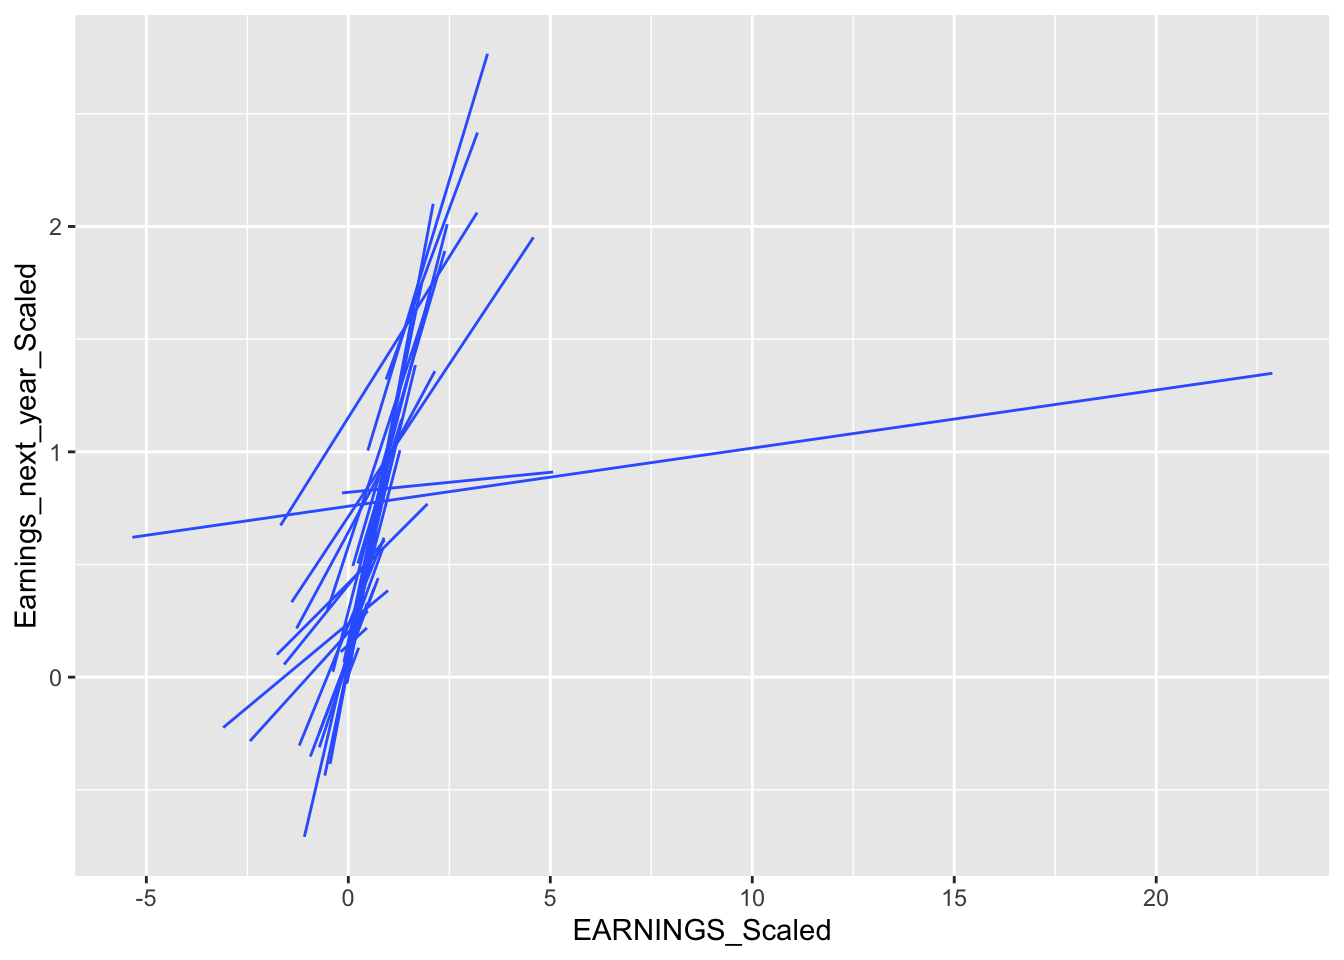
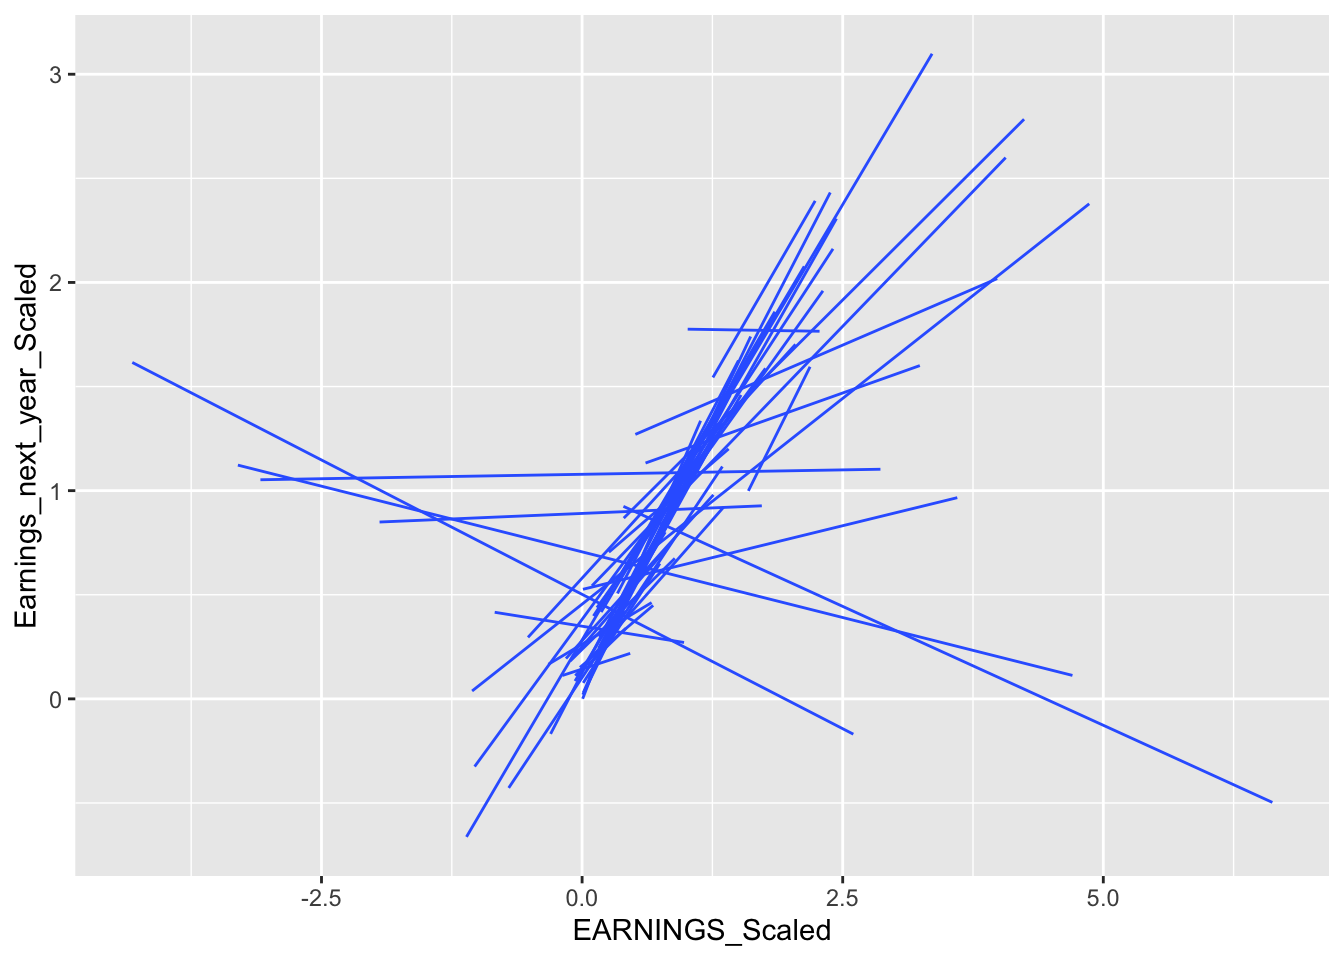
edits

diff --git a/docs/data.html b/docs/data.html
@@ -215,8 +215,8 @@ code span.wa { color: #60a0b0; font-weight: bold; font-style: italic; } /* Warni
 <div id="data-source" class="section level2" number="2.1">
 <h2><span class="header-section-number">2.1</span> Data Source</h2>
 <p>Our data includes financial information on companies in the S&amp;P 500 stock index from 1999-2021. This information was scraped from Yahoo Finance in November of 2021, and collected in a csv format for data analysis.</p>
-<p>To collect the data, first, we got the list of the current 500 S&amp;P companies from Slickchart (<a href="https://www.slickcharts.com/sp500" class="uri">https://www.slickcharts.com/sp500</a>). After having the list of the companies, we then moved on to the financials information of the listed companies on yahoo finance (<a href="https://finance.yahoo.com/" class="uri">https://finance.yahoo.com/</a>) to get the metrics such as sales, earnings, cogs, stock price, and market sector. We then scraped the data using BeautifulSoup library in Python and turned that into a CSV file.</p>
-<p>After getting the data, our main goal is to analyze and model this data to better improve projections for a company’s future metrics, like earnings.</p>
+<p>To collect the data, first, we got the list of the current 500 S&amp;P companies from Slickchart (<a href="https://www.slickcharts.com/sp500" class="uri">https://www.slickcharts.com/sp500</a>). After having the list of the companies, we then moved on to the financial information of the listed companies on yahoo finance (<a href="https://finance.yahoo.com/" class="uri">https://finance.yahoo.com/</a>) to get the metrics such as sales, earnings, cogs, stock price, and market sector. We then scraped the data using the BeautifulSoup library in Python and turned that into a CSV file.</p>
+<p>Our main goal is to analyze and model this data to better improve projections for a company’s future metrics, like earnings.</p>
 </div>
 <div id="variables" class="section level2" number="2.2">
 <h2><span class="header-section-number">2.2</span> Variables</h2>
@@ -280,7 +280,7 @@ code span.wa { color: #60a0b0; font-weight: bold; font-style: italic; } /* Warni
 <h2><span class="header-section-number">2.3</span> Data Cleaning</h2>
 <div id="data-pre-processing" class="section level3" number="2.3.1">
 <h3><span class="header-section-number">2.3.1</span> Data Pre-Processing</h3>
-<p>First, as the earnings, cash and other variables are really large, we have decided to divide them by 1 billion. The reason for that is to make it easier to interpret and to understand the model.</p>
+<p>First, as earnings, cash, and other variables are really large, we have decided to divide them by 1 billion. The reason for this is to make it easier to interpret and to understand the model.</p>
 <div class="sourceCode" id="cb1"><pre class="sourceCode r"><code class="sourceCode r"><span id="cb1-1"><a href="data.html#cb1-1" aria-hidden="true" tabindex="-1"></a><span class="co">#Scaling Variables of Interest</span></span>
 <span id="cb1-2"><a href="data.html#cb1-2" aria-hidden="true" tabindex="-1"></a>data <span class="ot">&lt;-</span> data <span class="sc">%&gt;%</span> </span>
 <span id="cb1-3"><a href="data.html#cb1-3" aria-hidden="true" tabindex="-1"></a>  <span class="fu">mutate</span>(<span class="at">EARNINGS_Scaled =</span> EARNINGS<span class="sc">/</span><span class="dv">1000000000</span>,</span>
@@ -303,7 +303,7 @@ code span.wa { color: #60a0b0; font-weight: bold; font-style: italic; } /* Warni
 </div>
 <div id="graphing-outliers" class="section level3" number="2.3.2">
 <h3><span class="header-section-number">2.3.2</span> Graphing Outliers</h3>
-<p>We will do some more basic exploration regarding our data set, particularly our dependent variable of interest: Earnings the next year. Earnings_next_year_Scaled is the company’s earnings the next year. So Earnings_next_year_Scaled value of 1 for Company X in 2015 can be interpreted as 1 billion dollars in earnings in 2016.</p>
+<p>We will do some more basic exploration regarding our data set, particularly our dependent variable of interest: Earnings next year. Earnings_next_year_Scaled is the company’s earnings the next year, so a value of 1 for Company X in 2015 can be interpreted as Company X had 1 billion dollars in earnings in 2016.</p>
 <p>We explore Earnings next year below:</p>
 <div class="sourceCode" id="cb3"><pre class="sourceCode r"><code class="sourceCode r"><span id="cb3-1"><a href="data.html#cb3-1" aria-hidden="true" tabindex="-1"></a><span class="co">#Graphing Outliers</span></span>
 <span id="cb3-2"><a href="data.html#cb3-2" aria-hidden="true" tabindex="-1"></a>data <span class="sc">%&gt;%</span> <span class="fu">ggplot</span>(<span class="fu">aes</span>(<span class="at">x =</span> Earnings_next_year_Scaled)) <span class="sc">+</span> </span>
@@ -312,15 +312,15 @@ code span.wa { color: #60a0b0; font-weight: bold; font-style: italic; } /* Warni
 <div class="sourceCode" id="cb4"><pre class="sourceCode r"><code class="sourceCode r"><span id="cb4-1"><a href="data.html#cb4-1" aria-hidden="true" tabindex="-1"></a>data <span class="sc">%&gt;%</span> <span class="fu">ggplot</span>(<span class="fu">aes</span>(<span class="at">x =</span> EARNINGS_Scaled, <span class="at">y=</span> Earnings_next_year_Scaled))<span class="sc">+</span></span>
 <span id="cb4-2"><a href="data.html#cb4-2" aria-hidden="true" tabindex="-1"></a>  <span class="fu">geom_point</span>()</span></code></pre></div>
 <p><img src="series_files/figure-html/unnamed-chunk-7-2.png" width="672" /></p>
-<p>There is a high number of outliers in our data, this is not ideal as we do not want to fit a model that includes outliers as predicting and modeling posterior distributions would be hard in the grand scheme.</p>
-<p>We removed outliers by classifying them as one if they are outside the range of +/- (0.9 * IQR) (Interquartile Range).</p>
+<p>There are a high number of outliers in our data, this is not ideal as we do not want to fit a model that includes many outliers, as predicting and modeling these posterior distributions would be quite difficult.</p>
+<p>We decided to remove outliers by classifying them as one if they are outside the range of +/- (0.9 * IQR) (Interquartile Range).</p>
 <div class="sourceCode" id="cb5"><pre class="sourceCode r"><code class="sourceCode r"><span id="cb5-1"><a href="data.html#cb5-1" aria-hidden="true" tabindex="-1"></a>Q <span class="ot">&lt;-</span> <span class="fu">quantile</span>(data<span class="sc">$</span>Earnings_next_year_Scaled, <span class="at">probs=</span><span class="fu">c</span>(.<span class="dv">25</span>, .<span class="dv">75</span>), <span class="at">na.rm =</span> <span class="cn">TRUE</span>)</span>
 <span id="cb5-2"><a href="data.html#cb5-2" aria-hidden="true" tabindex="-1"></a>iqr <span class="ot">&lt;-</span> <span class="fu">IQR</span>(data<span class="sc">$</span>Earnings_next_year_Scaled, <span class="at">na.rm =</span> <span class="cn">TRUE</span>)</span>
 <span id="cb5-3"><a href="data.html#cb5-3" aria-hidden="true" tabindex="-1"></a>up <span class="ot">&lt;-</span>  Q[<span class="dv">2</span>]<span class="sc">+</span>.<span class="dv">90</span><span class="sc">*</span>iqr <span class="co"># Upper Range  </span></span>
 <span id="cb5-4"><a href="data.html#cb5-4" aria-hidden="true" tabindex="-1"></a>low<span class="ot">&lt;-</span> Q[<span class="dv">1</span>]<span class="sc">-</span>.<span class="dv">90</span><span class="sc">*</span>iqr <span class="co"># Lower Range</span></span>
 <span id="cb5-5"><a href="data.html#cb5-5" aria-hidden="true" tabindex="-1"></a>eliminated<span class="ot">&lt;-</span> <span class="fu">subset</span>(data, data<span class="sc">$</span>Earnings_next_year_Scaled <span class="sc">&gt;</span> (low) <span class="sc">&amp;</span> data<span class="sc">$</span>Earnings_next_year_Scaled <span class="sc">&lt;</span> (up))</span>
 <span id="cb5-6"><a href="data.html#cb5-6" aria-hidden="true" tabindex="-1"></a>data_elimatedO <span class="ot">&lt;-</span> eliminated</span></code></pre></div>
-<p>We graph the data points without outliers below:</p>
+<p>We graph the remaining data points without outliers below:</p>
 <div class="sourceCode" id="cb6"><pre class="sourceCode r"><code class="sourceCode r"><span id="cb6-1"><a href="data.html#cb6-1" aria-hidden="true" tabindex="-1"></a>data_elimatedO <span class="sc">%&gt;%</span> <span class="fu">ggplot</span>(<span class="fu">aes</span>(<span class="at">x =</span> Earnings_next_year_Scaled)) <span class="sc">+</span> </span>
 <span id="cb6-2"><a href="data.html#cb6-2" aria-hidden="true" tabindex="-1"></a>  <span class="fu">geom_boxplot</span>()</span></code></pre></div>
 <p><img src="series_files/figure-html/unnamed-chunk-9-1.png" width="672" /></p>
@@ -332,7 +332,7 @@ code span.wa { color: #60a0b0; font-weight: bold; font-style: italic; } /* Warni
 </div>
 <div id="initial-explorations" class="section level2" number="2.4">
 <h2><span class="header-section-number">2.4</span> Initial Explorations</h2>
-<p>After collecting the data, we then looked for the distribution of the companies within the S&amp;P 500. The first plot we are going to create is the number of companies within the period:</p>
+<p>After cleaning the data, we then did some initial explorations like looking at the distribution of the companies within the S&amp;P 500. The first plot we are going to create is the number of companies within the given time period:</p>
 <div class="sourceCode" id="cb8"><pre class="sourceCode r"><code class="sourceCode r"><span id="cb8-1"><a href="data.html#cb8-1" aria-hidden="true" tabindex="-1"></a><span class="fu">tabyl</span>(data<span class="sc">$</span>YEAR) <span class="sc">%&gt;%</span> </span>
 <span id="cb8-2"><a href="data.html#cb8-2" aria-hidden="true" tabindex="-1"></a>  <span class="fu">ggplot</span>(<span class="fu">aes</span>(<span class="at">x=</span> <span class="st">`</span><span class="at">data$YEAR</span><span class="st">`</span>, <span class="at">y =</span> n)) <span class="sc">+</span></span>
 <span id="cb8-3"><a href="data.html#cb8-3" aria-hidden="true" tabindex="-1"></a>  <span class="fu">geom_line</span>() <span class="sc">+</span></span>
@@ -353,7 +353,7 @@ code span.wa { color: #60a0b0; font-weight: bold; font-style: italic; } /* Warni
 <span id="cb9-11"><a href="data.html#cb9-11" aria-hidden="true" tabindex="-1"></a>  <span class="fu">theme_minimal</span>() <span class="sc">+</span> </span>
 <span id="cb9-12"><a href="data.html#cb9-12" aria-hidden="true" tabindex="-1"></a>  <span class="fu">labs</span>(<span class="at">x =</span> <span class="st">&quot;Year&quot;</span>, <span class="at">y =</span> <span class="st">&quot;Sum of Market Cap&quot;</span>, <span class="at">title =</span> <span class="st">&quot;Market Cap within Dataset&quot;</span>)</span></code></pre></div>
 <p><img src="series_files/figure-html/unnamed-chunk-11-1.png" width="672" /></p>
-<p>Next, we investigated how market cap, specifically the sum of all the companies’ market caps, varied from year to year. By grouping by year, we were able to easily combine each companies market cap together to create the plot above. This plot highlights trends in the overall market, we see a general increase over time in market cap, with sharp decreases around 2008 and 2020. Those two years align with the housing market crash and COVID respectively, both which led to decreases in the stock market. By identifying trends in the overall market, we may have a better idea about how individual companies may perform.</p>
+<p>Next, we investigated how market cap, specifically the sum of all the companies’ market caps, varied from year to year. By grouping by year, we were able to easily combine each companies market cap together to create the plot above. This plot highlights trends in the overall market, we see a general increase over time in market cap, with sharp decreases around 2008 and 2020. Those two years align with the housing market crash and the emergence of COVID-19 respectively, both which led to decreases in the overall stock market. By identifying trends in the overall market, we may have a better idea about how individual companies may perform.</p>
 <div class="sourceCode" id="cb10"><pre class="sourceCode r"><code class="sourceCode r"><span id="cb10-1"><a href="data.html#cb10-1" aria-hidden="true" tabindex="-1"></a>temp <span class="ot">&lt;-</span> data <span class="sc">%&gt;%</span> </span>
 <span id="cb10-2"><a href="data.html#cb10-2" aria-hidden="true" tabindex="-1"></a>  <span class="fu">group_by</span>(COMPANY) <span class="sc">%&gt;%</span> </span>
 <span id="cb10-3"><a href="data.html#cb10-3" aria-hidden="true" tabindex="-1"></a>  <span class="fu">summarize</span>(<span class="at">count =</span> <span class="fu">n</span>(), </span>
@@ -410,7 +410,7 @@ code span.wa { color: #60a0b0; font-weight: bold; font-style: italic; } /* Warni
 <span id="cb11-33"><a href="data.html#cb11-33" aria-hidden="true" tabindex="-1"></a>         <span class="at">ncol =</span> <span class="dv">3</span>, <span class="at">nrow =</span> <span class="dv">2</span>,</span>
 <span id="cb11-34"><a href="data.html#cb11-34" aria-hidden="true" tabindex="-1"></a>         <span class="at">common.legend =</span> <span class="cn">TRUE</span>, <span class="at">legend =</span> <span class="st">&quot;bottom&quot;</span>)</span></code></pre></div>
 <p><img src="series_files/figure-html/unnamed-chunk-13-1.png" width="960" /></p>
-<p>For most sectors, it appears that the farther back we go, the flatter the relationship between Earnings and past earnings is. If we plot earnings next year with earnings four years ago, we will see that almost all sectors have different slopes.</p>
+<p>For most sectors, it appears that the farther back we go, the flatter the relationship between Earnings and past earnings is. If we plot earnings next year with earnings four years ago, we will see that almost all sectors have different slopes. This indicates to us that more recent years (earnings 1 year ago, 2 years ago, etc.) will be more useful in our models than less recent years (earnings 4 years ago, 5 years ago, etc.)</p>
 
 </div>
 </div>

diff --git a/docs/hierarchical-modeling.html b/docs/hierarchical-modeling.html
@@ -215,7 +215,7 @@ code span.wa { color: #60a0b0; font-weight: bold; font-style: italic; } /* Warni
 <div id="set-up" class="section level2" number="3.1">
 <h2><span class="header-section-number">3.1</span> Set Up</h2>
 <p><strong>Creating a testing set</strong></p>
-<p>Since we have time-series data, we created a testing set by sub-setting each company’s 2nd to latest year. We left off the most recent year a company reports their earnings and created a testing set with this data, the training set includes all the other previous years. We will predict earnings next year with the testing set and compare it with the actual values to help determine model accuracy.</p>
+<p>Since we have time-series data, we created a testing set by sub-setting each company’s 2nd to latest year. We left off the most recent year a company reports their earnings and created a testing set with this data, the training set includes all the other previous years. We will predict the earnings next year for each company with the testing set and compare it with the actual values to help determine model accuracy.</p>
 <div class="sourceCode" id="cb12"><pre class="sourceCode r"><code class="sourceCode r"><span id="cb12-1"><a href="hierarchical-modeling.html#cb12-1" aria-hidden="true" tabindex="-1"></a>testing <span class="ot">&lt;-</span> data_elimatedO <span class="sc">%&gt;%</span> </span>
 <span id="cb12-2"><a href="hierarchical-modeling.html#cb12-2" aria-hidden="true" tabindex="-1"></a>   <span class="fu">group_by</span>(COMPANY) <span class="sc">%&gt;%</span> </span>
 <span id="cb12-3"><a href="hierarchical-modeling.html#cb12-3" aria-hidden="true" tabindex="-1"></a>   <span class="fu">filter</span>(<span class="fu">row_number</span>()<span class="sc">==</span><span class="dv">1</span>)</span>
